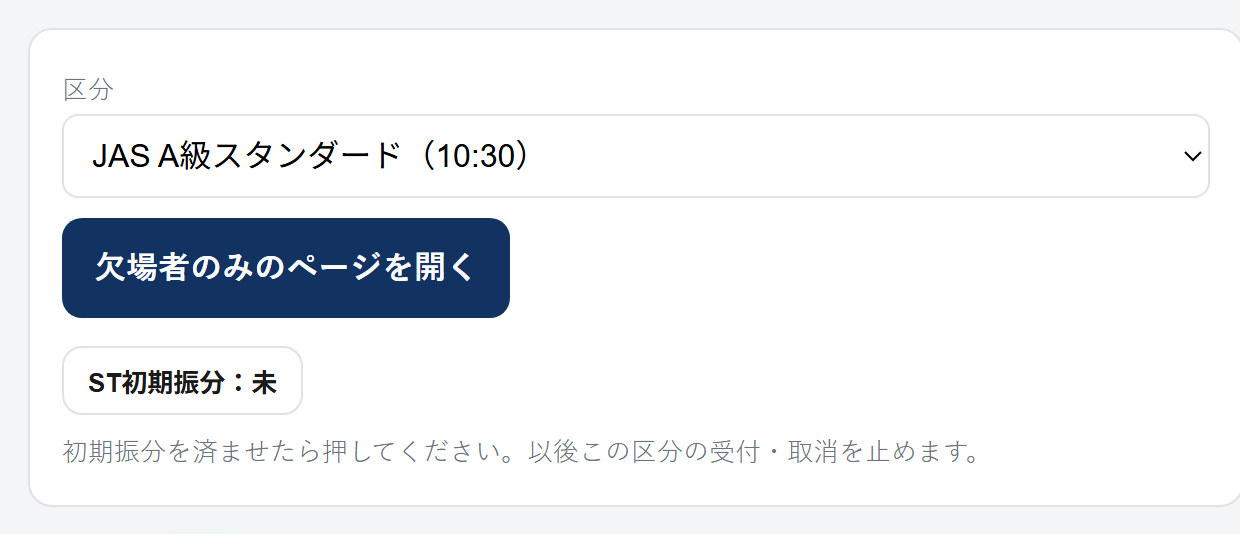
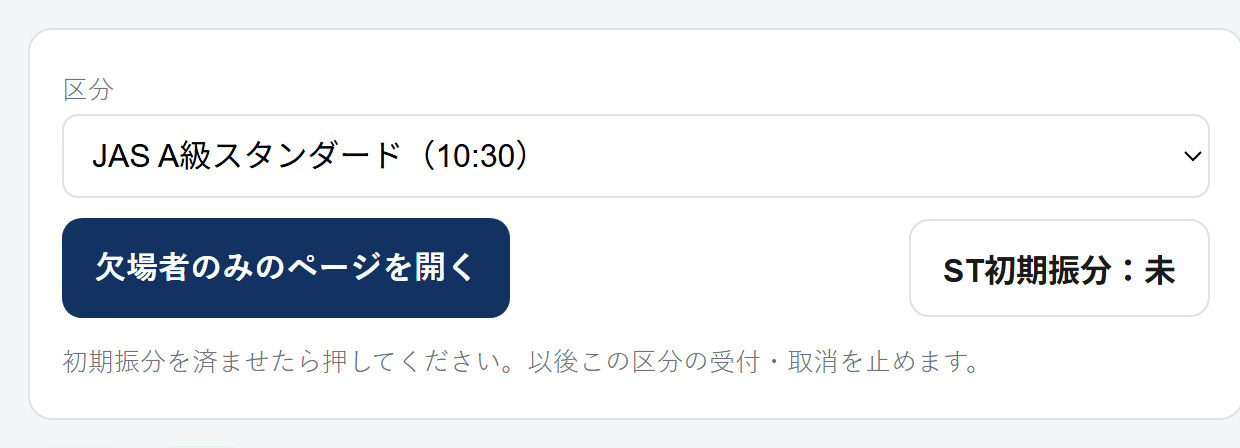
fix(uketsuke): ST初期振分のボタンを他と同じ大きさにして右端に置く
小さすぎて押しにくかった。「欠場者のみのページを開く」と同じ行の右端に、
同じ大きさで並べた。説明の文はボタンの下に移した。マニュアルの図も
差し替え。

diff --git a/uketsuke.html b/uketsuke.html
@@ -262,12 +262,12 @@
         <label class="muted">区分</label>
         <select id="rc-event"></select>
         <div style="height:10px"></div>
-        <a class="btn secondary" id="rc-print" href="uketsuke-absent.html" target="_blank" rel="noopener" style="display:inline-block;text-decoration:none">欠場者のみのページを開く</a>
-        <div style="height:14px"></div>
         <div class="row wrap">
-          <button type="button" class="small secondary" id="rc-assign">ST初期振分：未</button>
-          <span class="muted" id="rc-assign-note"></span>
+          <a class="btn secondary" id="rc-print" href="uketsuke-absent.html" target="_blank" rel="noopener" style="display:inline-block;text-decoration:none">欠場者のみのページを開く</a>
+          <button type="button" class="secondary" id="rc-assign" style="margin-left:auto">ST初期振分：未</button>
         </div>
+        <div style="height:8px"></div>
+        <span class="muted" id="rc-assign-note"></span>
       </div>
       <div class="row wrap">
         <span class="pill" id="rc-a-count">欠場 0</span>
@@ -1156,7 +1156,7 @@ function renderAssign(code){
   var a = assignMap()[code];
   var b = el('rc-assign');
   b.textContent = 'ST初期振分：' + (a ? '完了' : '未');
-  b.className = 'small ' + (a ? 'assign-done' : 'secondary');
+  b.className = (a ? 'assign-done' : 'secondary');
   b.dataset.code = code || '';
   el('rc-assign-note').textContent = a
     ? '完了 ' + fmtTime(a.at) + (a.by ? '（' + a.by + '）' : '') + '　この区分の受付・取消はできません'
